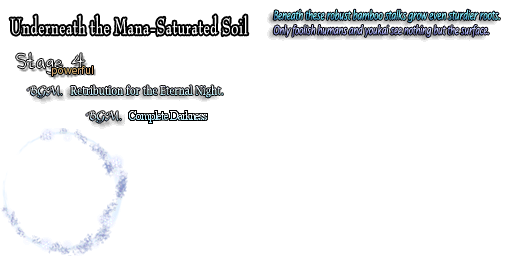
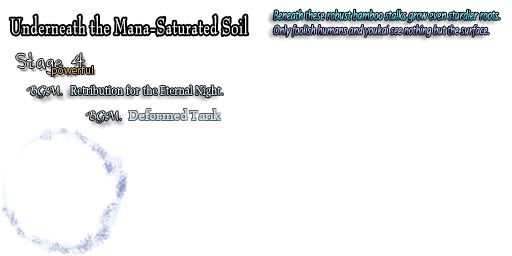
Another update

Changed region(s): [[0.25, 0.4062, 0.4375, 0.5]]

diff --git a/mima/files.js b/mima/files.js
@@ -54,7 +54,7 @@
 	"th08/data/player00/player03.png": 3986238006,
 	"th08/data/stgenm/stg4benm.png": 3496821779,
 	"th08/data/stgenm/stg9enm_yy.png": null,
-	"th08/data/text/stg4btxt.png": 542251230,
+	"th08/data/text/stg4btxt.png": 4171704174,
 	"th08/data/title/replay00.png": 788208300,
 	"th08/data/title/select01.png": 1420646140,
 	"th08/data/title/sl_pl00a.png": 2195413325,
@@ -80,7 +80,7 @@
 	"th08/data/title/sl_text.png": 1704478695,
 	"th08/data/title/title01.png": 695150599,
 	"th08/data/title/title02.png": 4260694601,
-	"th08/musiccmt.js": 1060305179,
+	"th08/musiccmt.js": 3384726703,
 	"th08/spellcomments.js": 3707567970,
 	"th08/spells.js": 2963299044,
 	"th08/th08logo.jpg": 2497998162,
@@ -271,5 +271,5 @@
 	"th14/title/player_01ex.png": 3593502150,
 	"th14/title/weapon_01.png": 1003615941,
 	"th14/title/weapon_01b.png": 1573870023,
-	"themes.js": 2452140892
+	"themes.js": 2823828057
 }

diff --git a/mima/themes.js b/mima/themes.js
@@ -45,7 +45,7 @@
     "th08_07": "Plain Asia",
     "th08_08": "Retribution for the Eternal Night ~ Imperishable Night",
     "th08_09": "Maiden's Capriccio ~ Dream Battle",
-    "th08_10": "Complete Darkness",
+    "th08_10": "Deformed Tank",
     "th08_11": "Cinderella Cage ~ Kagome-Kagome",
     "th08_12": "Lunatic Eyes ~ Invisible Full Moon",
     "th08_13": "Voyage 1969",

diff --git a/mima/th08/musiccmt.js b/mima/th08/musiccmt.js
@@ -81,7 +81,10 @@
     "10": [
         "@",
         "This is Mima's theme.",
-        "by 星霜"
+        "by 深蒼穹",
+		"",
+		"This is actually a nice original song.",
+		"It doesn't sound IN-ish, but it sounds good~"
     ],
     "11": [
         "@",
